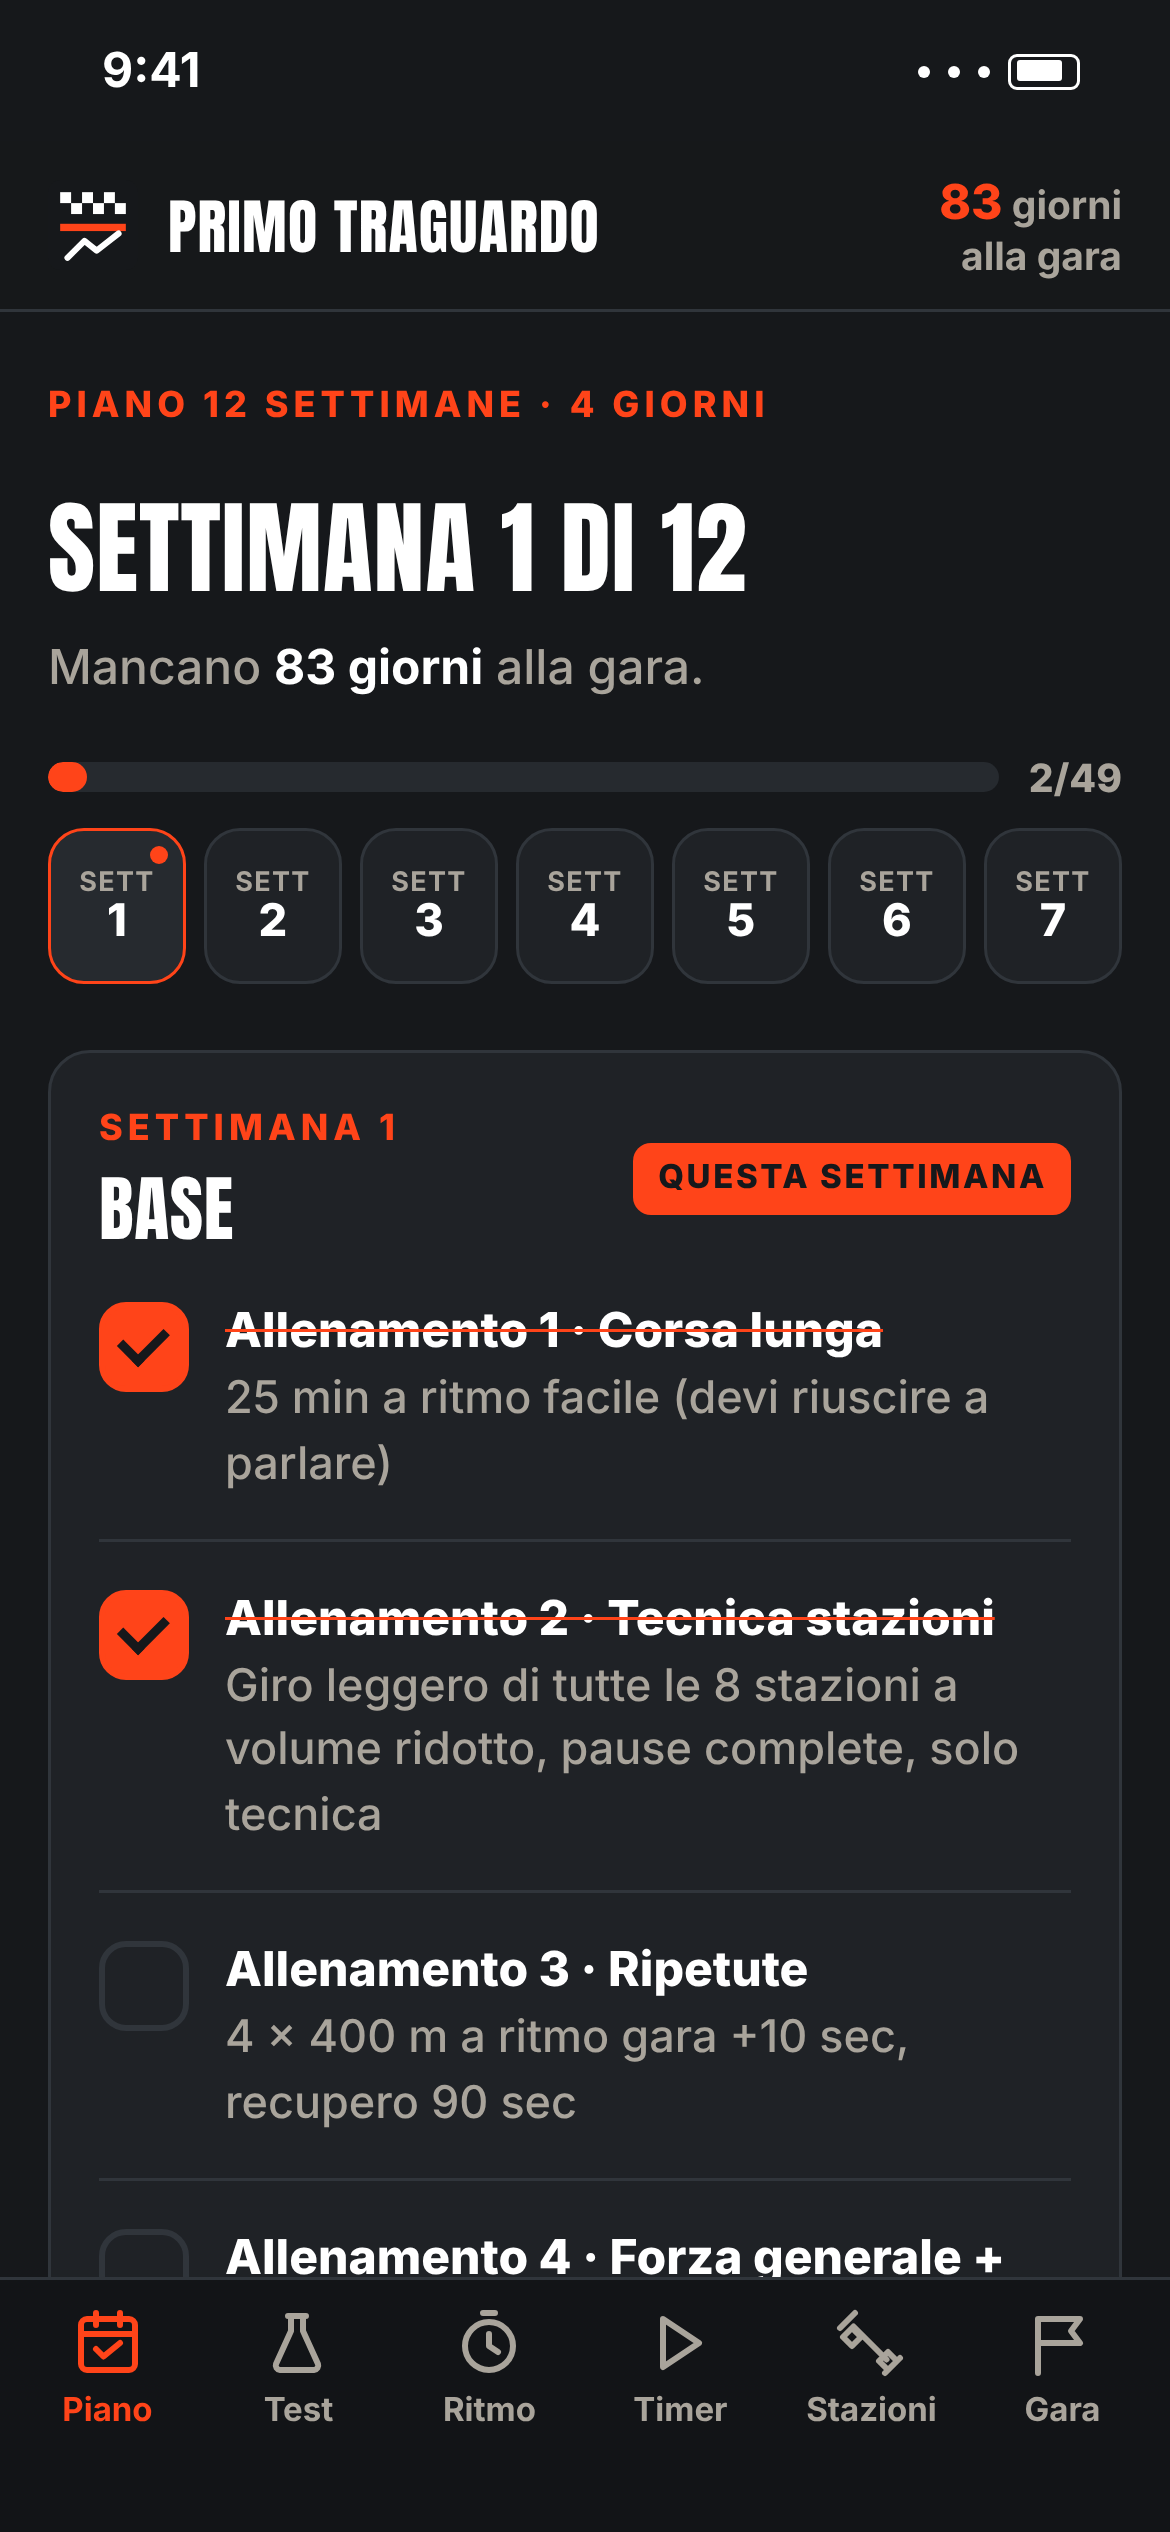
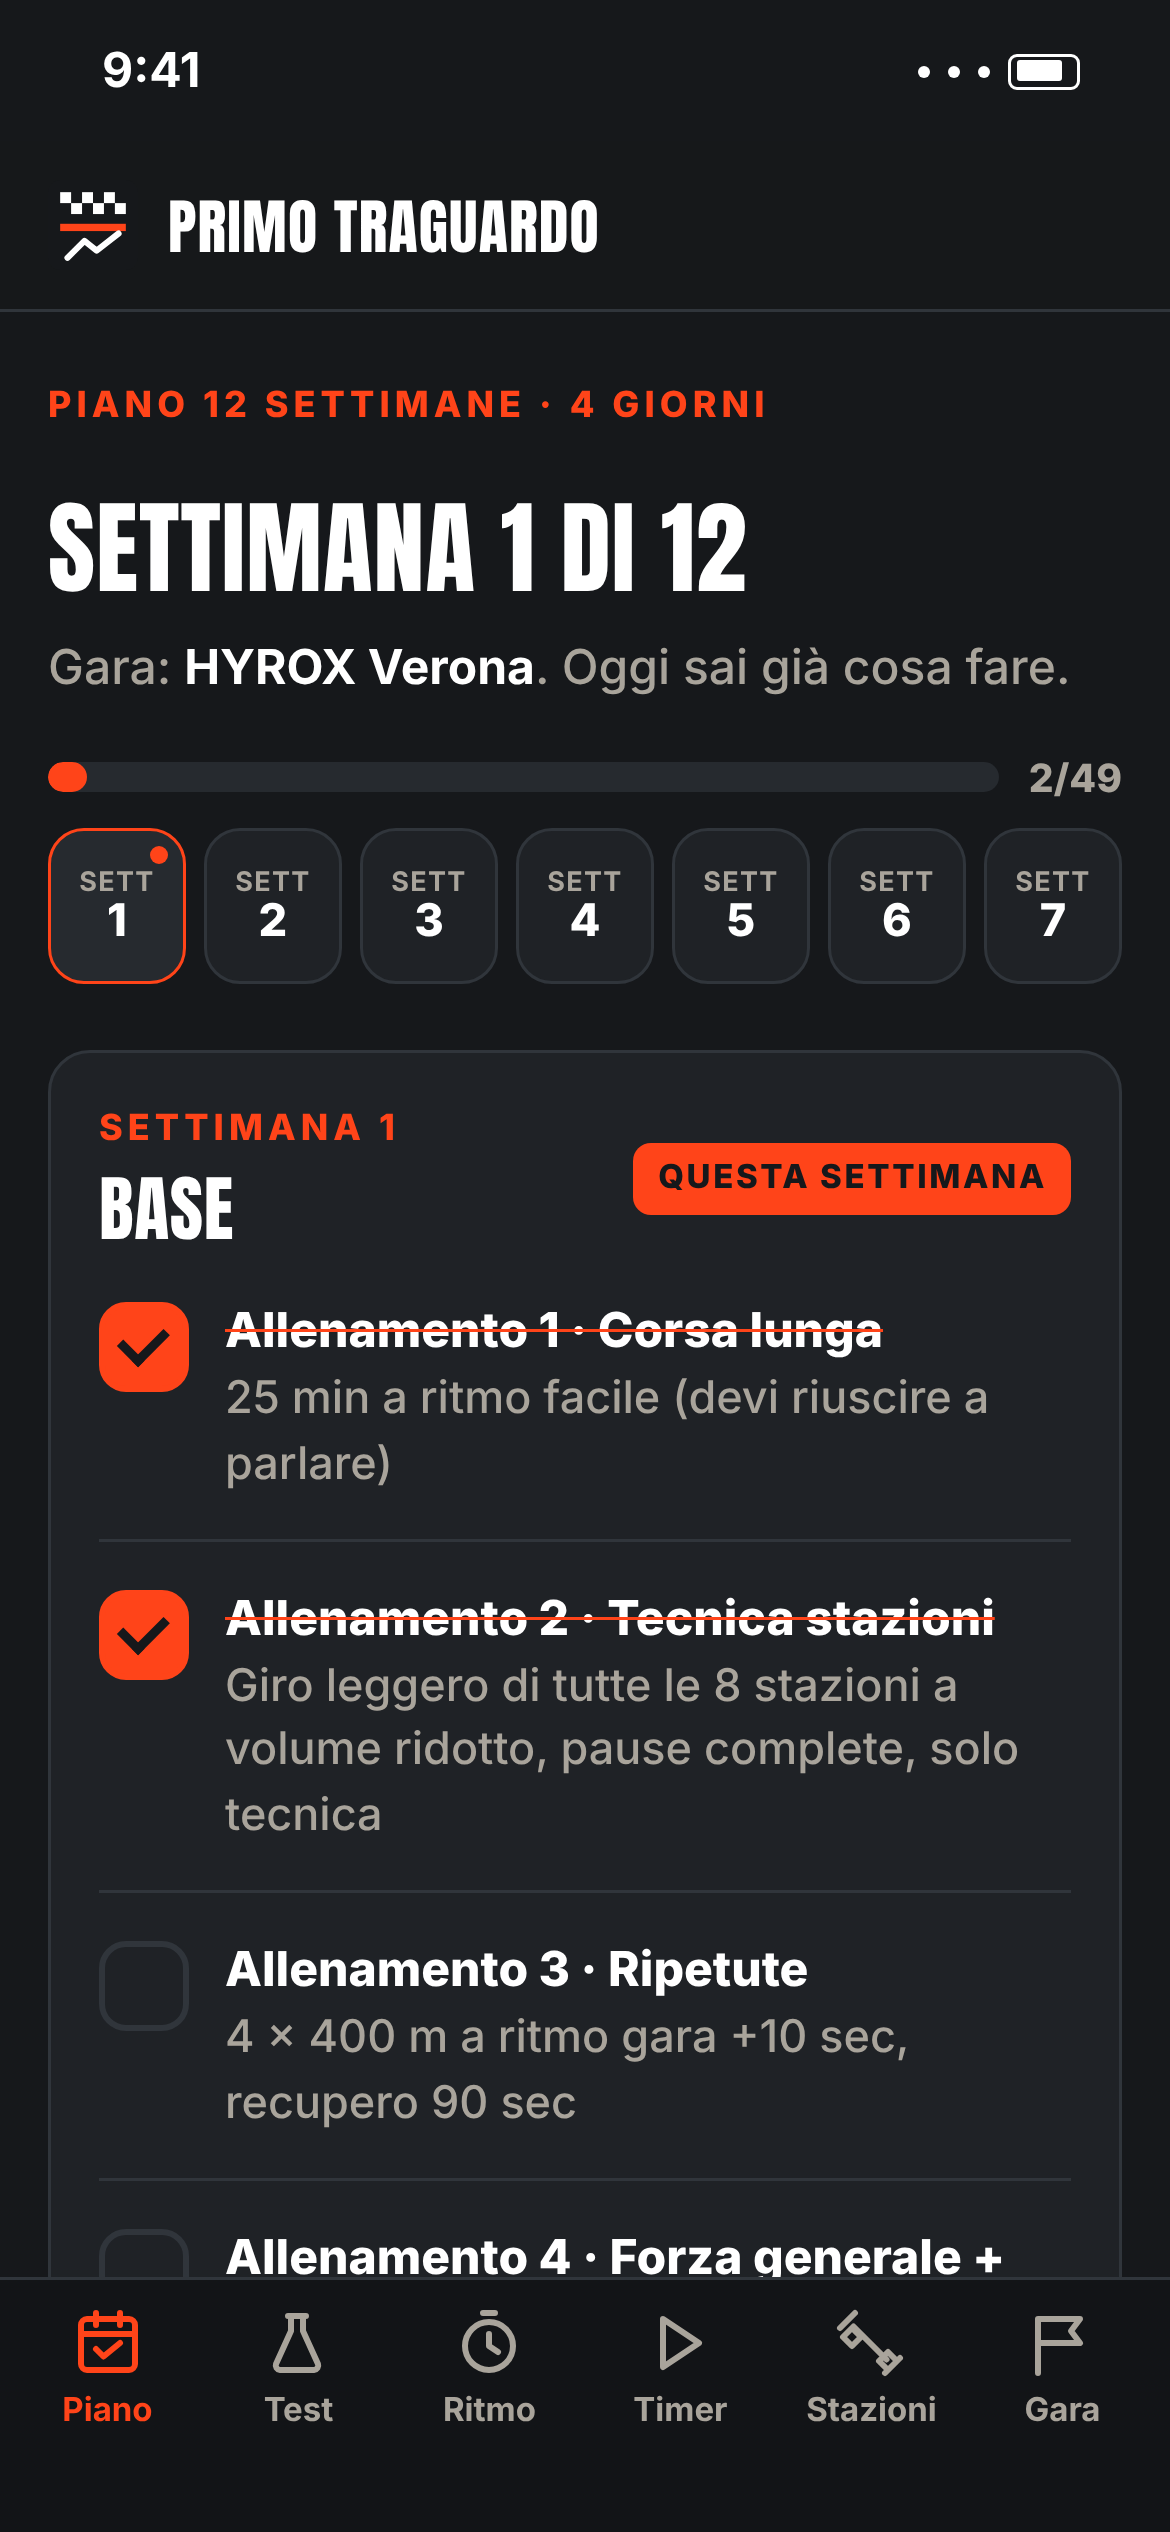
Inserzione Verona A4 senza scadenza e regola: le inserzioni non devono mai essere aggiornate
Claude-Session: https://claude.ai/code/session_01HHPwk51E3tFTUJQmHr44HV

Changed region(s): [[0.0308, 0.2496, 0.7077, 0.2808], [0.8, 0.0624, 0.9538, 0.1248], [0.7385, 0.2496, 0.8923, 0.2808]]

diff --git a/strumenti/schermate-app.js b/strumenti/schermate-app.js
@@ -1,5 +1,5 @@
 // Schermate aggiornate dell'app Primo Traguardo (stessa grafica di templates/page.app.liquid del tema Shopify),
-// con la gara impostata su HYROX Verona (28 gennaio 2027), piano 12 settimane, 4 giorni.
+// senza giorni mancanti (le inserzioni non devono invecchiare), piano 12 settimane, 4 giorni.
 // Uso: node schermate-app.js cartella_uscita  -> app-piano.png, app-ritmo.png, app-timer.png (390x844 @3x)
 const { chromium } = require('playwright');
 const fs = require('fs'); const path = require('path');
@@ -47,7 +47,7 @@ table{width:100%;border-collapse:collapse;font-size:15px}td{padding:9px 4px;bord
 .res{border-left:4px solid var(--acc)}`;
 const SB = `<div class="sb"><span>9:41</span><span class="r"><i></i><i></i><i></i><b></b></span></div>`;
 const LOGO = `<svg viewBox="0 0 74 74"><rect width="74" height="74" rx="10" fill="#16181B"/><g fill="#fff"><rect x="10" y="10" width="9" height="9"/><rect x="28" y="10" width="9" height="9"/><rect x="46" y="10" width="9" height="9"/><rect x="19" y="19" width="9" height="9"/><rect x="37" y="19" width="9" height="9"/><rect x="55" y="19" width="9" height="9"/></g><rect x="10" y="36" width="54" height="6" fill="#FF4419"/><path d="M16 64 L30 50 L40 58 L58 44" stroke="#fff" stroke-width="5" fill="none" stroke-linecap="round" stroke-linejoin="round"/></svg>`;
-const HDR = `<header><div class="wrap">${LOGO}<div class="t">Primo Traguardo</div><div class="cd"><b>83</b> giorni<br>alla gara</div></div></header>`;
+const HDR = `<header><div class="wrap">${LOGO}<div class="t">Primo Traguardo</div><div class="cd"></div></div></header>`;
 const NAV = (on) => `<nav><div class="wrap">${[
   ['plan', 'Piano', '<rect x="3" y="4" width="18" height="17" rx="2"/><path d="M3 9h18M8 2v4M16 2v4M8 14l2.5 2.5L16 12"/>'],
   ['test', 'Test', '<path d="M9 3h6M10 3v5L5 19a1.5 1.5 0 0 0 1.3 2h11.4A1.5 1.5 0 0 0 19 19l-5-11V3"/>'],
@@ -58,7 +58,7 @@ const NAV = (on) => `<nav><div class="wrap">${[
 const SESS = [['Corsa lunga', '25 min a ritmo facile (devi riuscire a parlare)'], ['Tecnica stazioni', 'Giro leggero di tutte le 8 stazioni a volume ridotto, pause complete, solo tecnica'], ['Ripetute', '4 × 400 m a ritmo gara +10 sec, recupero 90 sec'], ['Forza generale + core', 'Squat, affondi, stacco, trazioni, plank: 2-3 serie × 10-12']];
 const piano = `${SB}${HDR}<div class="wrap">
 <div class="k" style="margin-top:22px">Piano 12 settimane · 4 giorni</div><h1>Settimana 1 di 12</h1>
-<p class="mut">Mancano <b style="color:#fff">83 giorni</b> alla gara.</p>
+<p class="mut">Gara: <b style="color:#fff">HYROX Verona</b>. Oggi sai già cosa fare.</p>
 <div class="row"><div style="flex:1"><div class="prog"><i style="width:4%"></i></div></div><div class="note" style="font-weight:800">2/49</div></div>
 <div class="wk">${Array.from({length:7},(_,i)=>`<span class="${i===0?'on cur':''}"><small>SETT</small>${i+1}</span>`).join('')}</div>
 <div class="card"><div class="row" style="justify-content:space-between"><div><div class="k">Settimana 1</div><h2 style="margin:6px 0 2px">Base</h2></div><span class="tag a">Questa settimana</span></div>

diff --git a/strumenti/inserzione-verona-a2.js b/strumenti/inserzione-verona-a2.js
@@ -33,8 +33,8 @@ const A = (h) => { const o = h === 1920 ? 250 : 0; return `<div class="ad" style
 <div class="abs anton" style="left:58px;top:${o+100}px;font-size:150px;color:#fff">HYROX <span style="color:#FF4419">VERONA</span></div>
 <div class="abs date" style="left:62px;top:${o+252}px;font-size:56px">28-31 GENNAIO 2027</div>
 <div class="abs anton" style="left:44px;top:${o+372}px;font-size:330px;color:#FF4419;text-shadow:0 0 80px rgba(255,68,25,.45)">12</div>
-<div class="abs anton" style="left:318px;top:${o+410}px;font-size:92px;color:#fff;line-height:.95">Settimane<br>al via.</div>
-<div class="abs" style="left:322px;top:${o+600}px;width:480px;color:#d9dadc;font-weight:600;font-size:28px;line-height:1.35">Il piano giorno per giorno, già pronto.</div>
+<div class="abs anton" style="left:318px;top:${o+410}px;font-size:92px;color:#fff;line-height:.95">Settimane<br>di piano.</div>
+<div class="abs" style="left:322px;top:${o+600}px;width:480px;color:#d9dadc;font-weight:600;font-size:28px;line-height:1.35">Il piano giorno per giorno, nell'app.</div>
 <div class="abs list" style="left:60px;top:${o+725}px;width:520px">
 <div>Piano 12 settimane + Express 6</div><div>Le 8 stazioni con le alternative</div><div>Test iniziale e ritmo gara</div><div>Checklist del giorno gara</div><div>Tutto nell'app, dal telefono</div></div>
 ${phone("app-ritmo.png", 600, o + 650, 215, -7, 2)}${phone("app-piano.png", 790, o + 620, 245, 5, 3)}

diff --git a/CLAUDE.md b/CLAUDE.md
@@ -14,6 +14,9 @@ Pagina di approvazione (database "contenuti"): https://claude.ai/artifact/9RzNXL
 
 ### Inserzioni
 - Le grafiche per le inserzioni Meta si fanno SOLO quando Umberto lo chiede esplicitamente. Mai nei giri automatici.
+- Le inserzioni devono essere "senza scadenza": una volta pubblicate non vanno MAI più aggiornate, perché ogni modifica fa ripartire
+  da capo l'apprendimento di Meta. Quindi niente conti alla rovescia, "mancano X giorni/settimane", "ultimi giorni" o altro che
+  invecchia (neanche nelle schermate dell'app). Data della gara e prezzo vanno bene solo se restano veri finché l'inserzione gira.
 
 ### Brand
 - Colori: arancio #FF4419 (accento, una cosa alla volta), quasi nero #16181B, sabbia #ECE8E0, bianco.
